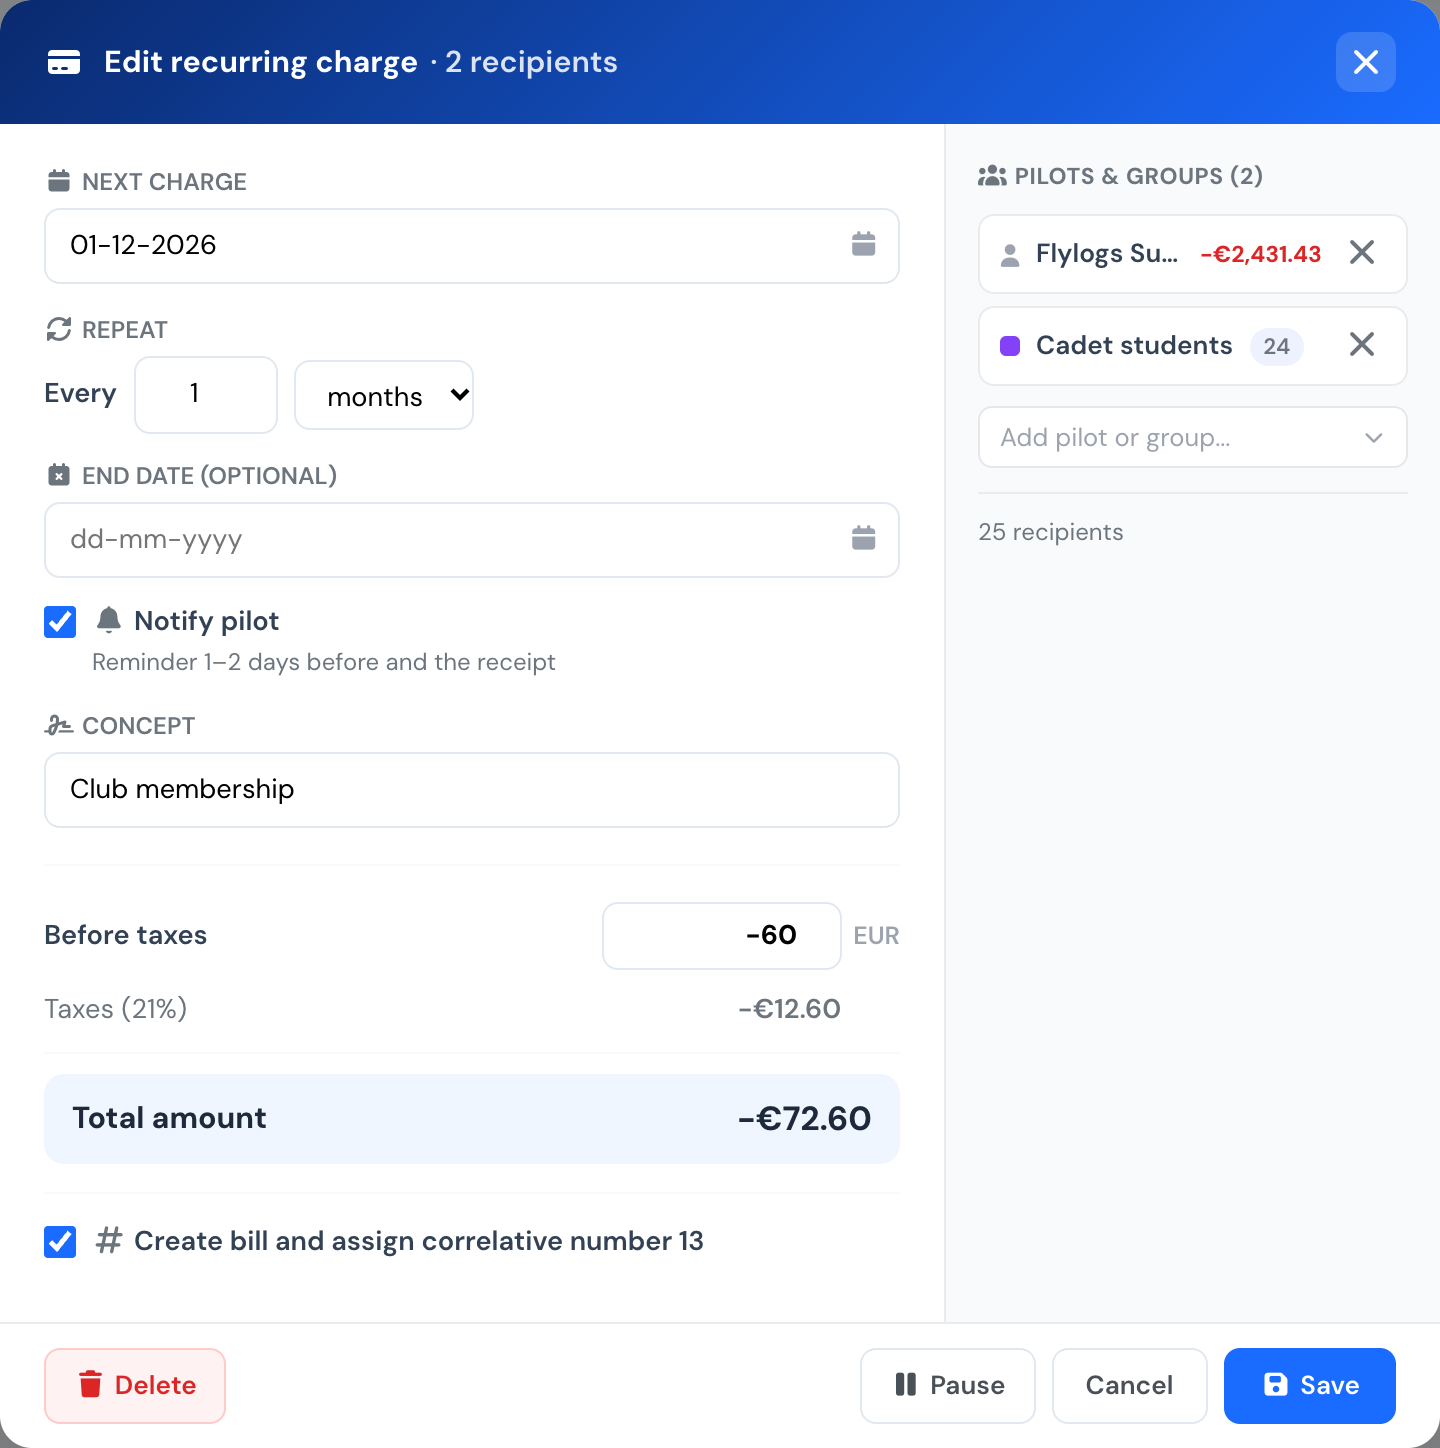
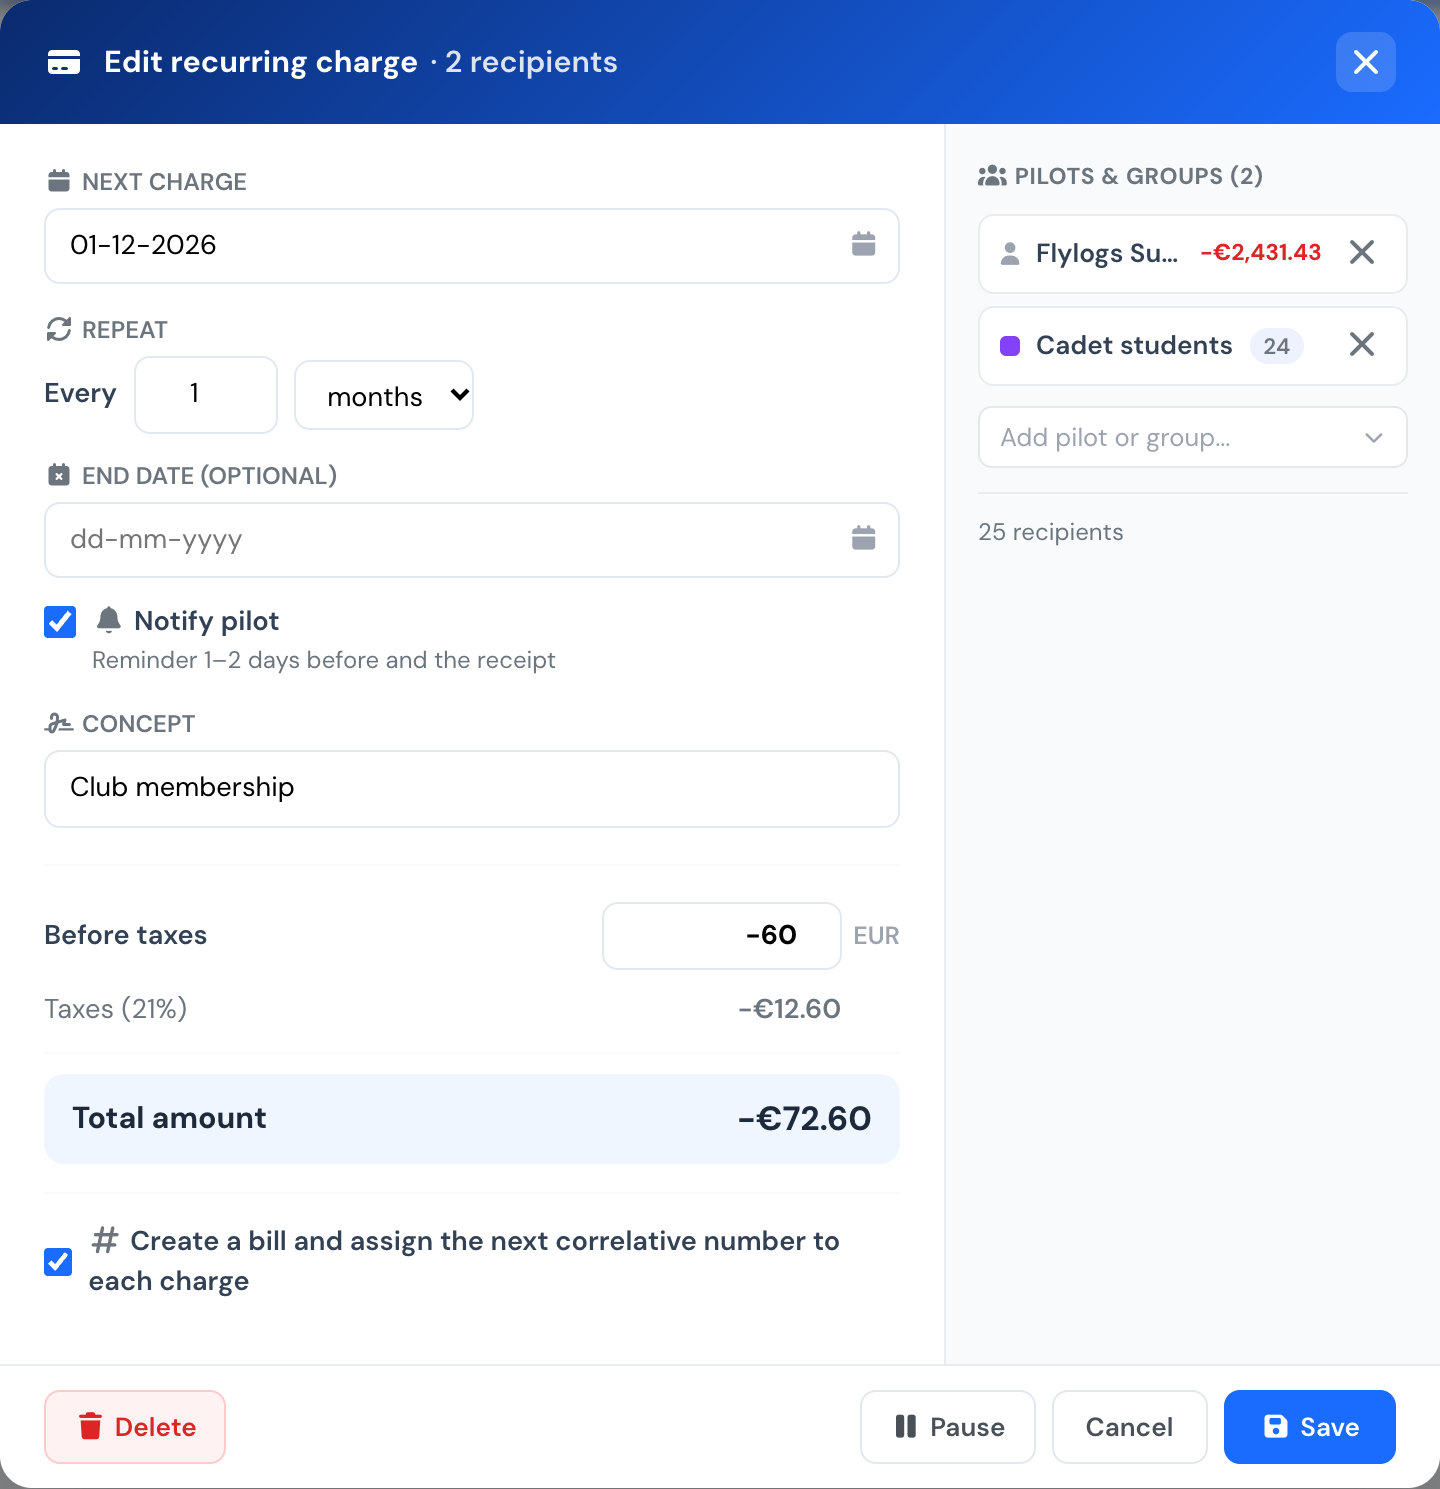
docs(billing): recurring client_id, ended-when-paused, dropped recipients
API: client_id on recurring_save, receipts after the response, resume
past the end date, recipients that left. Guide: numbering label, paused
next charge dash, ended definition. Screenshots retaken (Flylogs co).

diff --git a/API/bills.md b/API/bills.md
@@ -622,9 +622,10 @@ List the company's recurring charges.
 |-------|-------------|
 | amount | Amount before taxes, always positive |
 | total | Amount including taxes, always positive |
-| status | `active`, `paused` or `ended` (stopped and past its end date) |
+| status | `active`, `paused` or `ended`. Ended means the charge stopped after its end date, or it is paused and resuming it now would charge after its end date |
 | next_due / last_posted_due | Company-local dates (`YYYY-MM-DD`) |
 | recipients[].ended | For groups: `true` when the group's end date has passed, so it charges nobody |
+| recipients | Deleted pilots, pilots who left the company and deleted groups are not listed. They are never charged, and the next save drops them |
 
 <mark style="color:green;">`POST`</mark> `/manager/bills/recurring_save.json`
 
@@ -633,9 +634,10 @@ Create a recurring charge, or update one when `id` is sent. Form-encoded.
 | Field | Type | Required | Description |
 |-------|------|----------|-------------|
 | id | UUID | Edit only | Recurring charge to update |
+| client_id | UUID | No (new only) | A UUID your client makes once per new charge. It becomes the charge's `id`: if the same save is sent again (for example after a timeout), the charge it already created is returned with nothing posted, instead of a second charge. A value that is not a UUID is refused |
 | name | string | Yes | Concept shown on each transaction |
 | amount | number | Yes | Amount before taxes per charge, greater than zero. Posted as a negative transaction (a charge) |
-| user_id[] | array | Yes | Pilot IDs and/or pilot group UUIDs. At least one |
+| user_id[] | array | Yes | Pilot IDs and/or pilot group UUIDs. At least one. On edit, pilots and groups that have left the company since they were added are dropped from the charge |
 | interval_unit | string | Yes | `week` or `month` |
 | interval_count | number | Yes | 1 to 24 |
 | start_date | string | New only | First charge date (`YYYY-MM-DD`, company time) |
@@ -644,7 +646,7 @@ Create a recurring charge, or update one when `id` is sent. Form-encoded.
 | notify | boolean | No | Reminder 24 to 48 hours before each charge and the receipt when it posts. Default `true` |
 | assign_number | boolean | No | Give each posted transaction a bill number |
 
-When `start_date` is today, the first charge is posted before the response is sent.
+When `start_date` is today, the first charge is posted before the response is sent. Its receipts are sent just after the response. Saving can take several seconds for a large group, so allow at least a minute before timing out, and send the same `client_id` if you retry.
 
 ```json
 {
@@ -656,7 +658,7 @@ When `start_date` is today, the first charge is posted before the response is se
 
 <mark style="color:green;">`POST`</mark> `/manager/bills/recurring_toggle.json`
 
-Pause or resume a recurring charge. Form fields: `id`, `active` (`0` pauses, `1` resumes). Resuming never charges the paused period. Returns `{ "result": true }`.
+Pause or resume a recurring charge. Form fields: `id`, `active` (`0` pauses, `1` resumes). Resuming never charges the paused period. If the next charge after resuming would fall after the end date, the charge ends instead and you get the "has ended" error. Returns `{ "result": true }`.
 
 <mark style="color:green;">`POST`</mark> `/manager/bills/recurring_delete.json`
 
@@ -678,7 +680,8 @@ Errors use the usual `400` body, with the reason in `message`:
 | 400 | The end date is before the next charge. (the next charge, once calculated, falls after the end date; a past start date is not back-charged) |
 | 400 | The next charge must be after the last charge on `{date}`. |
 | 400 | This recurring charge has ended. Create a new one to charge again. (saving, pausing or resuming an ended charge) |
-| 400 | One of the recipients is not in this company. |
+| 400 | One of the recipients is not in this company. (a pilot or group added in this save) |
+| 400 | Invalid client id. (`client_id` is not a UUID) |
 | 404 | Recurring charge not found. |
 | 403 | Not a manager, or billing is not enabled |
 

diff --git a/API/reference/bills.md b/API/reference/bills.md
@@ -622,9 +622,10 @@ List the company's recurring charges.
 |-------|-------------|
 | amount | Amount before taxes, always positive |
 | total | Amount including taxes, always positive |
-| status | `active`, `paused` or `ended` (stopped and past its end date) |
+| status | `active`, `paused` or `ended`. Ended means the charge stopped after its end date, or it is paused and resuming it now would charge after its end date |
 | next_due / last_posted_due | Company-local dates (`YYYY-MM-DD`) |
 | recipients[].ended | For groups: `true` when the group's end date has passed, so it charges nobody |
+| recipients | Deleted pilots, pilots who left the company and deleted groups are not listed. They are never charged, and the next save drops them |
 
 <mark style="color:green;">`POST`</mark> `/manager/bills/recurring_save.json`
 
@@ -633,9 +634,10 @@ Create a recurring charge, or update one when `id` is sent. Form-encoded.
 | Field | Type | Required | Description |
 |-------|------|----------|-------------|
 | id | UUID | Edit only | Recurring charge to update |
+| client_id | UUID | No (new only) | A UUID your client makes once per new charge. It becomes the charge's `id`: if the same save is sent again (for example after a timeout), the charge it already created is returned with nothing posted, instead of a second charge. A value that is not a UUID is refused |
 | name | string | Yes | Concept shown on each transaction |
 | amount | number | Yes | Amount before taxes per charge, greater than zero. Posted as a negative transaction (a charge) |
-| user_id[] | array | Yes | Pilot IDs and/or pilot group UUIDs. At least one |
+| user_id[] | array | Yes | Pilot IDs and/or pilot group UUIDs. At least one. On edit, pilots and groups that have left the company since they were added are dropped from the charge |
 | interval_unit | string | Yes | `week` or `month` |
 | interval_count | number | Yes | 1 to 24 |
 | start_date | string | New only | First charge date (`YYYY-MM-DD`, company time) |
@@ -644,7 +646,7 @@ Create a recurring charge, or update one when `id` is sent. Form-encoded.
 | notify | boolean | No | Reminder 24 to 48 hours before each charge and the receipt when it posts. Default `true` |
 | assign_number | boolean | No | Give each posted transaction a bill number |
 
-When `start_date` is today, the first charge is posted before the response is sent.
+When `start_date` is today, the first charge is posted before the response is sent. Its receipts are sent just after the response. Saving can take several seconds for a large group, so allow at least a minute before timing out, and send the same `client_id` if you retry.
 
 ```json
 {
@@ -656,7 +658,7 @@ When `start_date` is today, the first charge is posted before the response is se
 
 <mark style="color:green;">`POST`</mark> `/manager/bills/recurring_toggle.json`
 
-Pause or resume a recurring charge. Form fields: `id`, `active` (`0` pauses, `1` resumes). Resuming never charges the paused period. Returns `{ "result": true }`.
+Pause or resume a recurring charge. Form fields: `id`, `active` (`0` pauses, `1` resumes). Resuming never charges the paused period. If the next charge after resuming would fall after the end date, the charge ends instead and you get the "has ended" error. Returns `{ "result": true }`.
 
 <mark style="color:green;">`POST`</mark> `/manager/bills/recurring_delete.json`
 
@@ -678,7 +680,8 @@ Errors use the usual `400` body, with the reason in `message`:
 | 400 | The end date is before the next charge. (the next charge, once calculated, falls after the end date; a past start date is not back-charged) |
 | 400 | The next charge must be after the last charge on `{date}`. |
 | 400 | This recurring charge has ended. Create a new one to charge again. (saving, pausing or resuming an ended charge) |
-| 400 | One of the recipients is not in this company. |
+| 400 | One of the recipients is not in this company. (a pilot or group added in this save) |
+| 400 | Invalid client id. (`client_id` is not a UUID) |
 | 404 | Recurring charge not found. |
 | 403 | Not a manager, or billing is not enabled |
 

diff --git a/billing/billing-setup.md b/billing/billing-setup.md
@@ -88,7 +88,7 @@ If the first charge date is today, the first charge is posted as soon as you sav
 
 #### What each charge looks like
 
-Every charge is posted as a normal manual transaction in the pilot's account, with a bill number when **Create bill and assign correlative number** is ticked. In the transactions list it is marked with a recurring icon, so you can tell it from the ones you create by hand.
+Every charge is posted as a normal manual transaction in the pilot's account. With **Create a bill and assign the next correlative number to each charge** ticked, each posted charge gets the next bill number when it is posted. In the transactions list it is marked with a recurring icon, so you can tell it from the ones you create by hand.
 
 * **Pilots and groups.** You can pick pilots, pilot groups, or both. A group is read again on each due date, so the charge goes to whoever is a member of the group that day: pilots who join the group later are charged from then on, and pilots who left are not. A pilot who is in two of the chosen groups, or who is chosen directly and also through a group, is charged once. Only pilots with billing enabled are charged. A group whose end date has passed charges nobody, and the list shows a warning icon next to it.
 * **End of the month.** A charge that starts on the 31st is posted on the last day of shorter months (the 28th or 29th in February) and goes back to the 31st when the month allows it.
@@ -107,12 +107,12 @@ When your company takes [card payments](online-payments.md), the reminder tells 
 In the manager **Bills** page, the **Recurring** view lists all your recurring transactions: the concept, the recipients (pilots and groups with their number of members), the amount including taxes, how often it repeats, the date of the next charge, and its status:
 
 * **Active**: it will be posted on the next charge date.
-* **Paused**: it is not posted until you resume it.
-* **Ended**: it passed its end date and will not be posted again.
+* **Paused**: it is not posted until you resume it. The next charge shows a dash, because resuming picks a new date.
+* **Ended**: it passed its end date and will not be posted again. A paused charge also shows as ended when resuming it today would put the next charge after its end date.
 
 <figure><img src="../.gitbook/assets/recurring-list.png" alt="Recurring view in the Bills page with five recurring charges, their recipients, amount, frequency, next charge date and status"><figcaption><p>The Recurring view in Billing.</p></figcaption></figure>
 
-Click a row to open it. You can change the concept, the amount, how often it repeats, the next charge date (it must be after the last charge already posted), the end date, **Notify pilot**, and the pilots and groups. Changes apply to the charges that have not been posted yet; the transactions already posted keep their values.
+Click a row to open it. You can change the concept, the amount, how often it repeats, the next charge date (it must be after the last charge already posted), the end date, **Notify pilot**, and the pilots and groups. Pilots who left the company and deleted groups are no longer listed, and saving removes them from the charge. Changes apply to the charges that have not been posted yet; the transactions already posted keep their values.
 
 <figure><img src="../.gitbook/assets/recurring-edit.png" alt="Edit recurring charge window with the next charge date, repeat interval, end date, Notify pilot, concept, amount, recipients, and Delete, Pause, Cancel and Save buttons"><figcaption><p>Editing a recurring charge, with Pause and Delete.</p></figcaption></figure>
 
